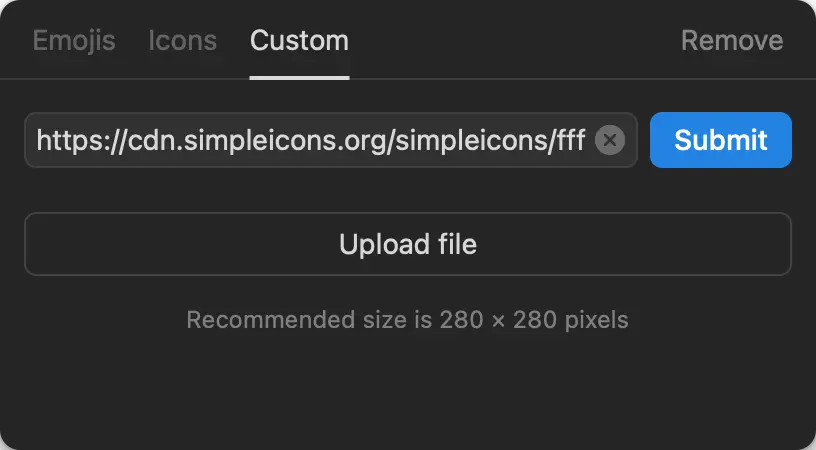
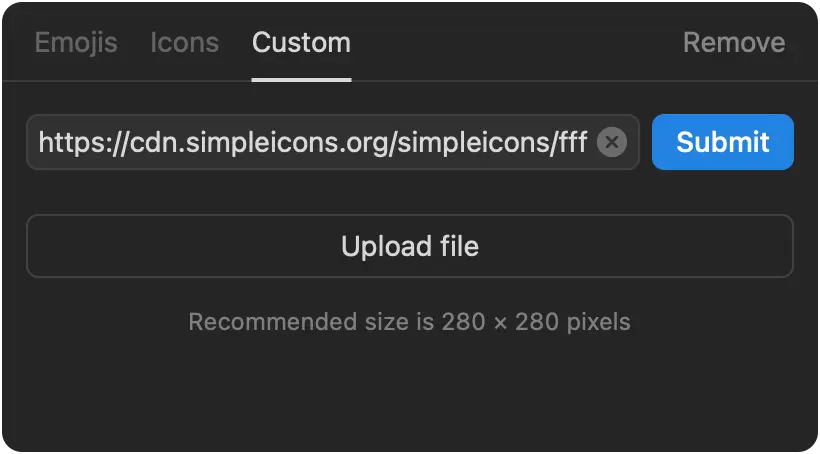
Polish screenshots

diff --git a/README.md b/README.md
@@ -110,7 +110,7 @@ You can use this icon CDN anywhere in Notion which allows you to insert a custom
 	<picture>
 		<source media="(prefers-color-scheme: dark)" srcset="https://raw.githubusercontent.com/LitoMore/simple-icons-cdn/main/media/notion-screenshot-dark.webp">
   	<source media="(prefers-color-scheme: light)" srcset="https://raw.githubusercontent.com/LitoMore/simple-icons-cdn/main/media/notion-screenshot-light.webp">
-		<img width="400" src="https://raw.githubusercontent.com/LitoMore/simple-icons-cdn/main/media/notion-screenshot-light.webp" />
+		<img width="400" src="https://raw.githubusercontent.com/LitoMore/simple-icons-cdn/main/media/notion-screenshot-light.png" />
 	</picture>
 </p>
 
